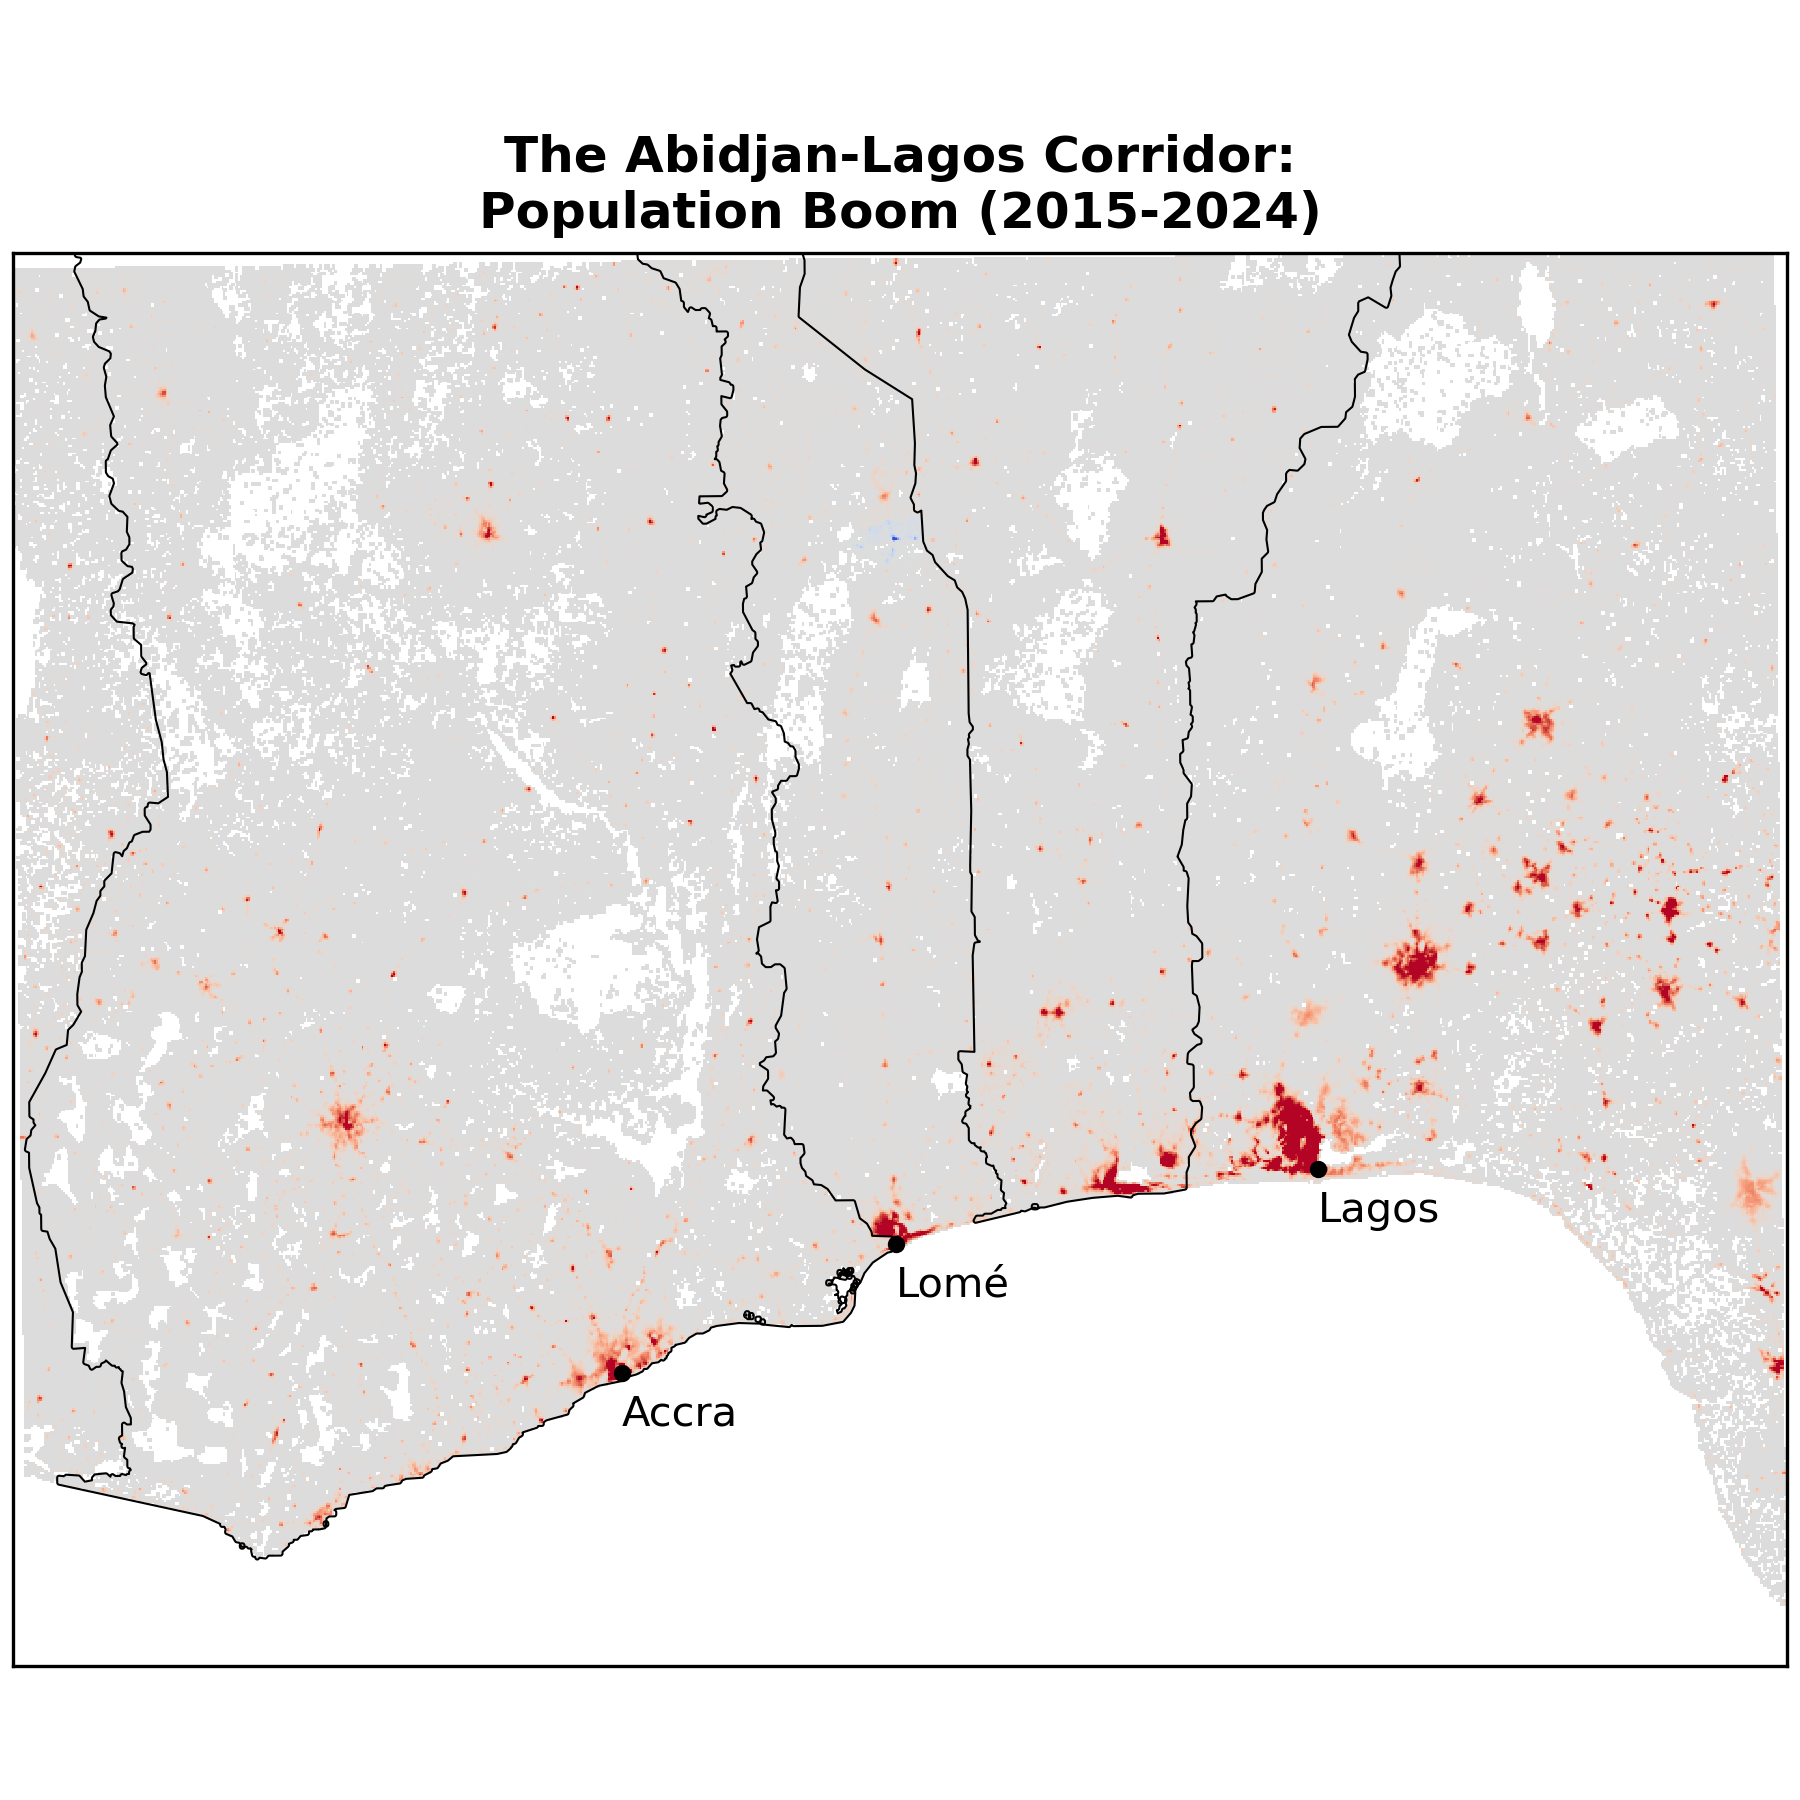
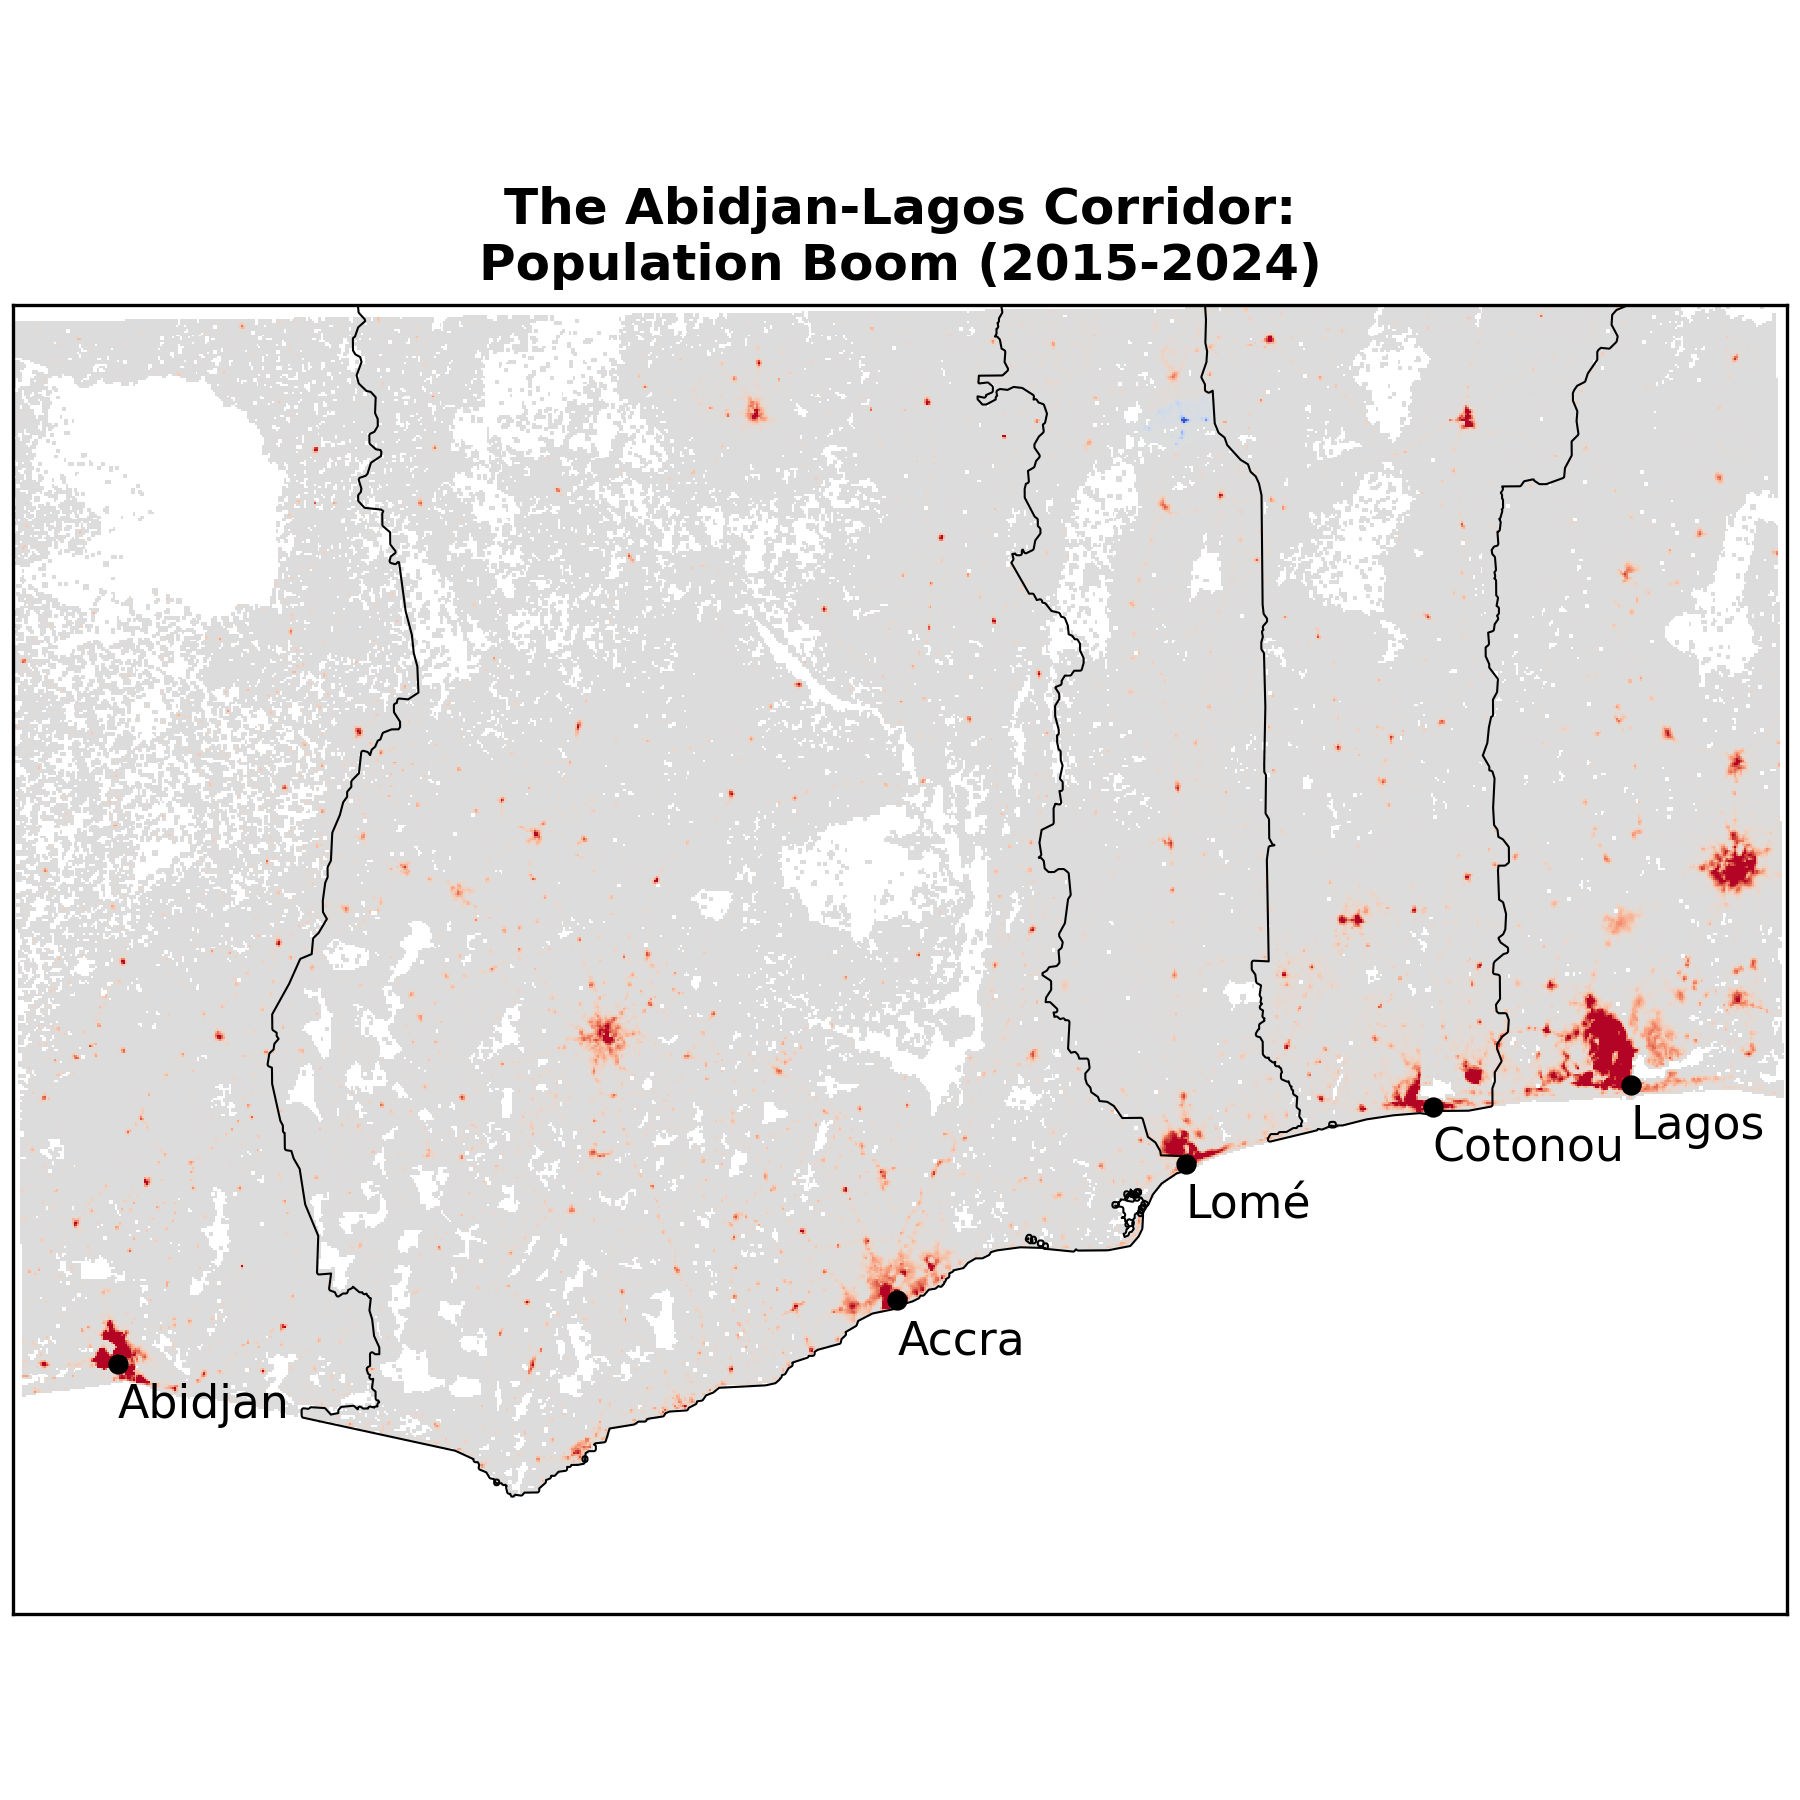
fix: Abidjan was missing from the Abidjan-Lagos example

diff --git a/examples/quickstart/04_west_africa_growth.py b/examples/quickstart/04_west_africa_growth.py
@@ -11,7 +11,7 @@ from worldpoppy import *
 # We grab a large 1,000km slice of the West African coast.
 pop_data = wp_raster(
     product_name='pop_g2_1km_r25a',  # Low-res. population from "Global 2" series
-    aoi=bbox_from_location('Lomé', width_km=1_000),
+    aoi=bbox_from_location('Accra', width_km=950),
     years=[2015, 2024],
     masked=True,
 )
@@ -48,8 +48,8 @@ clean_axes(
 # We plot the three central countries only to avoid double-drawing shared borders.
 plot_country_borders(['GHA', 'TOG', 'BEN'], to_crs=aeqa_africa)
 plot_location_markers(
-    ['Abidjan', 'Accra', 'Lomé', 'Lagos'],
-    to_crs=aeqa_africa, s=10,
+    ['Abidjan', 'Accra', 'Lomé', 'Cotonou', 'Lagos'],
+    to_crs=aeqa_africa, s=15, fontsize=11,
 )
 
 if __name__ == "__main__":
